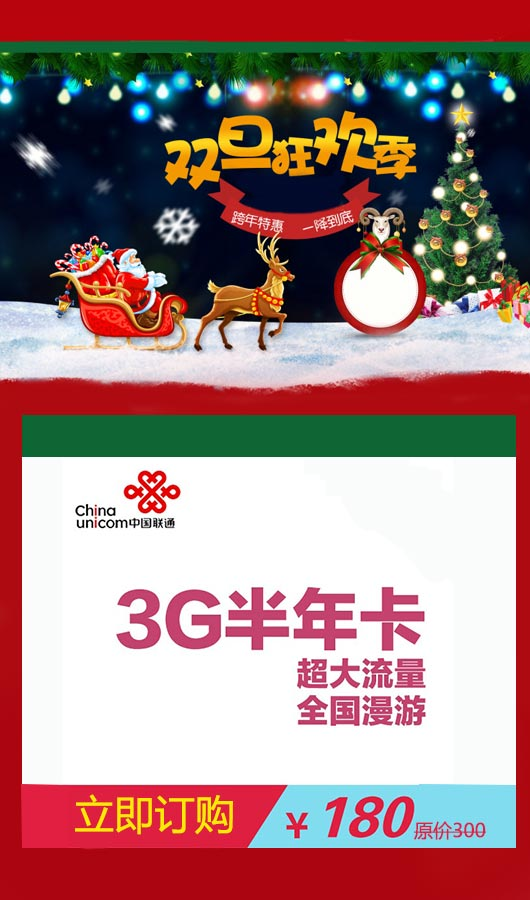
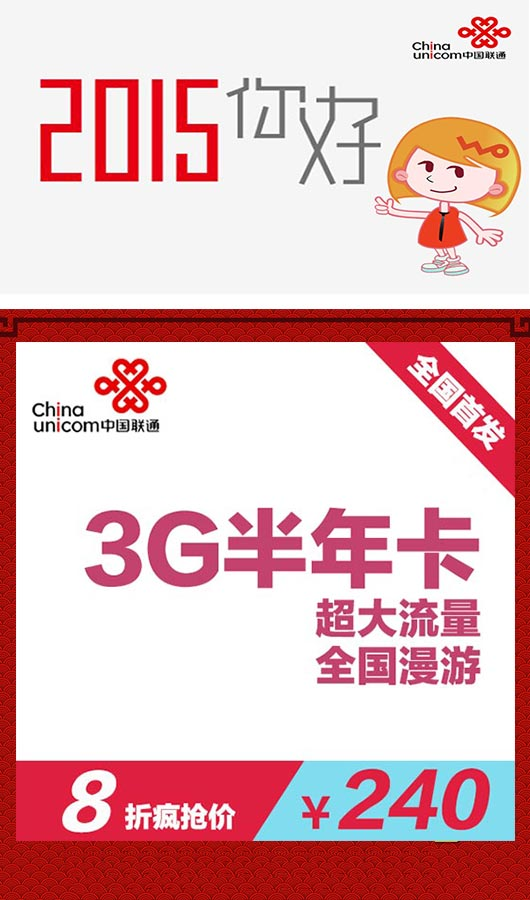
modify

diff --git a/views/wap/showdoubledaninfo.php b/views/wap/showdoubledaninfo.php
@@ -9,7 +9,7 @@
 <head>
 <meta http-equiv="Content-Type" content="text/html; charset=UTF-8">
 
-<title>双旦狂欢季</title> 
+<title>上网卡</title> 
 <meta name="description" content=""> 
 <meta http-equiv="Pragma" content="no-cache">
 <meta http-equiv="Expires" content="-1">
@@ -44,16 +44,18 @@
 <div class="device rel" id="device" >
     <div class="swiper-container" id="swiper-container">
       <div class="swiper-wrapper">
+	  
+	  <!--
             <div class="swiper-slide rel swiper-slide-visible swiper-slide-active">
               <div class="main">
-              <img src="./show_res/index_doubledaninfo.jpg?v5" >
+              <img src="./show_res/index_doubledaninfo.jpg?v7" >
               </div>
             </div>
            
             <div class="swiper-slide rel" >
               <div class="main" >
               <a href="javascript:jump2order('iphone4s')">
-                <img class="lazy" data-original="./show_res/iphone4s.jpg?v5" src="./show_res/iphone4s.jpg?v5" >
+                <img class="lazy" data-original="./show_res/iphone4s.jpg?v7" src="./show_res/iphone4s.jpg?v7" >
               </a>
               </div>
             </div>
@@ -61,7 +63,7 @@
             <div class="swiper-slide rel" >
               <div class="main" >
               <a href="javascript:jump2order('iphone5s')">
-                <img class="lazy" data-original="./show_res/iphone5s.jpg?v5" src="./show_res/iphone5s.jpg?v5" >
+                <img class="lazy" data-original="./show_res/iphone5s.jpg?v7" src="./show_res/iphone5s.jpg?v7" >
               </a>
               </div>
             </div>
@@ -69,7 +71,7 @@
             <div class="swiper-slide rel" >
               <div class="main" >
               <a href="javascript:jump2order('iphone6')">
-                <img class="lazy" data-original="./show_res/iphone6dd.jpg?v5" src="./show_res/iphone6dd.jpg?v5" >
+                <img class="lazy" data-original="./show_res/iphone6dd.jpg?v7" src="./show_res/iphone6dd.jpg?v7" >
               </a>
               </div>
             </div>
@@ -77,7 +79,7 @@
             <div class="swiper-slide rel" >
               <div class="main" >
               <a href="javascript:jump2order('honor6')">
-                <img class="lazy" data-original="./show_res/honor6.jpg?v5" src="./show_res/honor6.jpg?v5" >
+                <img class="lazy" data-original="./show_res/honor6.jpg?v7" src="./show_res/honor6.jpg?v7" >
               </a>
               </div>
             </div>
@@ -85,7 +87,7 @@
             <div class="swiper-slide rel" >
               <div class="main" >
               <a href="javascript:jump2order('xiaomi4')">
-                <img class="lazy" data-original="./show_res/xiaomi4.jpg?v5" src="./show_res/xiaomi4.jpg?v5" >
+                <img class="lazy" data-original="./show_res/xiaomi4.jpg?v7" src="./show_res/xiaomi4.jpg?v7" >
               </a>
               </div>
             </div>
@@ -93,15 +95,16 @@
             <div class="swiper-slide rel" >
               <div class="main" >
               <a href="javascript:jump2order('samsungg5108q')">
-                <img class="lazy" data-original="./show_res/samsungg5108q.jpg?v5" src="./show_res/samsungg5108q.jpg?v5" >
+                <img class="lazy" data-original="./show_res/samsungg5108q.jpg?v7" src="./show_res/samsungg5108q.jpg?v7" >
               </a>
               </div>
             </div>
-
-            <div class="swiper-slide rel" >
+			-->
+			
+            <div class="swiper-slide rel swiper-slide-visible swiper-slide-active" >
               <div class="main" >
               <a href="javascript:jump2order('100yuan5gshangwangka')">
-                <img class="lazy" data-original="./show_res/100yuan5gshangwangka.jpg?v5" src="./show_res/100yuan5gshangwangka.jpg?v5" >
+                <img class="lazy" data-original="./show_res/100yuan5gshangwangka.jpg?v7" src="./show_res/100yuan5gshangwangka.jpg?v7" >
               </a>
               </div>
             </div>  
@@ -109,7 +112,7 @@
             <div class="swiper-slide rel" >
               <div class="main" >
               <a href="javascript:jump2order('3gbannianshangwangka')">
-                <img class="lazy" data-original="./show_res/3gbannianshangwangka.jpg?v5" src="./show_res/3gbannianshangwangka.jpg?v5" >
+                <img class="lazy" data-original="./show_res/3gbannianshangwangka.jpg?v7" src="./show_res/3gbannianshangwangka.jpg?v7" >
               </a>
               </div>
             </div>     
@@ -117,7 +120,7 @@
             <div class="swiper-slide rel" >
               <div class="main" >
               <a href="javascript:jump2order('6gniankashangwangka')">
-                <img class="lazy" data-original="./show_res/6gniankashangwangka.jpg?v5" src="./show_res/6gniankashangwangka.jpg?v5" >
+                <img class="lazy" data-original="./show_res/6gniankashangwangka.jpg?v7" src="./show_res/6gniankashangwangka.jpg?v7" >
               </a>
               </div>
             </div>     
@@ -125,7 +128,7 @@
             <div class="swiper-slide rel" >
               <div class="main" >
               <a href="javascript:jump2order('45gshangwangka')">
-                <img class="lazy" data-original="./show_res/45gshangwangkadd.jpg?v5" src="./show_res/45gshangwangkadd.jpg?v5" >
+                <img class="lazy" data-original="./show_res/45gshangwangkadd.jpg?v7" src="./show_res/45gshangwangkadd.jpg?v7" >
               </a>
               </div>
             </div>                        
@@ -133,7 +136,7 @@
           <div class="swiper-slide rel">
             <div class="main" >
             <a href="javascript:jump2order('96gshangwangka')">
-            <img class="lazy" data-original="./show_res/96gshangwangkadd.jpg?v5" src="./show_res/96gshangwangkadd.jpg?v5" >
+            <img class="lazy" data-original="./show_res/96gshangwangkadd.jpg?v7" src="./show_res/96gshangwangkadd.jpg?v7" >
             </a>
             </div>
           </div> 
@@ -144,7 +147,7 @@
 
 <script type="text/javascript" src="./show_res/stylee.js"></script>
 <script type="text/javascript" src="./show_res/jquery.jplayer.min.js"></script> 
-<script src="./show_res/main.js?v51" type="text/javascript"></script>
+<script src="./show_res/main.js?v71" type="text/javascript"></script>
 <script src="./js/wechat.js" type="text/javascript"></script>
 
 <?php 
@@ -152,9 +155,9 @@
   $url = Yii::$app->wx->WxGetOauth2Url('snsapi_base', 'wap/showdoubledaninfo:'.Yii::$app->wx->getGhid());
   //$this->registerJsFile(Yii::$app->getRequest()->baseUrl.'/js/wechat.js');
   $assetsPath = Yii::$app->getRequest()->baseUrl.'/show_res';
-  $myImg = Url::to("$assetsPath/index_doubledaninfo.jpg?v5", true);
-  $title = '双旦狂欢季';
-  $desc = '2014年最后一波特大优惠已经来袭，亲们做好准备了吗？';
+  $myImg = Url::to("$assetsPath/index_doubledaninfo.jpg?v7", true);
+  $title = '上网卡';
+  $desc = '2015年特大优惠已经来袭，亲们做好准备了吗？';
 ?>
 
 <script>

diff --git a/views/wap/doubledan.php b/views/wap/doubledan.php
@@ -31,61 +31,61 @@
 
 <div data-role="page" id="page1" data-theme="c">
 
-	<?php echo $this->render('header2', ['menuId'=>'menu4','title' => '双旦狂欢季']); ?>
+	<?php echo $this->render('header2', ['menuId'=>'menu4','title' => '上网卡']); ?>
 
 	<div data-role="content">
 
 		<?php if($cid==805) {?>
-			<img src="../web/show_res/doubledan-head.jpg" width="100%">
+			<img src="../web/show_res/doubledan-head.jpg?v1" width="100%">
 			<p>苹果Apple iPhone6</p>
 			<p>市场价5499元，活动价5499元 iPhone6 机身颜色:银色/深空灰色/金色 运行内存RAM:2GB 机身内存:16GB/64GB/128GB 网络模式:单卡多模 电池容量:1810mAh</p>
 		<?php } elseif($cid==813) { ?>
-			<img src="../web/show_res/doubledan-head.jpg" width="100%">
+			<img src="../web/show_res/doubledan-head.jpg?v1" width="100%">
 			<p>苹果Apple iPhone4S</p>
 			<p>市场价2599元，活动价1999元 iPhone4S 机身颜色:白色/黑色 运行内存RAM:512MB 机身内存:8GB 网络模式:单卡双模 电池容量:1420mAh</p>
 
 		<?php } elseif($cid==814) { ?>
-			<img src="../web/show_res/doubledan-head.jpg" width="100%">
+			<img src="../web/show_res/doubledan-head.jpg?v1" width="100%">
 			<p>苹果Apple iPhone5S</p>
 			<p>市场价4699元，活动价4099元 iPhone 5S机身颜色: 银色 金色 深空灰色运行内存RAM: 1GB机身内存: 16GB网络模式: 单卡多模电池容量: 1560mAh</p>
 
 		<?php } elseif($cid==815) { ?>
-			<img src="../web/show_res/doubledan-head.jpg" width="100%">
+			<img src="../web/show_res/doubledan-head.jpg?v1" width="100%">
 			<p>华为荣耀6</p>
 			<p>市场价2199元，活动价1999元 Huawei/华为 H60-L02 白色/黑色 运行内存RAM:3GB 机身内存:16GB 网络模式:双卡多模 电池容量:3100mAh</p>
 
 		<?php } elseif($cid==816) { ?>
-			<img src="../web/show_res/doubledan-head.jpg" width="100%">
+			<img src="../web/show_res/doubledan-head.jpg?v1" width="100%">
 			<p>小米4</p>
 			<p>市场价2199元，活动价2099元 机身颜色:亮白运行 内存RAM:3GB 机身内存:16GB 网络模式:单卡双模 电池容量:3000mah</p>
 
 		<?php } elseif($cid==817) { ?>
-			<img src="../web/show_res/doubledan-head.jpg" width="100%">
+			<img src="../web/show_res/doubledan-head.jpg?v1" width="100%">
 			<p>三星G5108Q</p>
 			<p>市场价1799元，活动价1599元 Samsung/三星 SM-G5108Q 白色/炭灰 运行内存RAM:1GB 机身内存:8GB 网络模式:双卡双模 电池容量:2200mAh</p>
 
 		<?php } elseif($cid==810) { ?>
-			<img src="../web/show_res/doubledan-head.jpg" width="100%">
+			<img src="../web/show_res/doubledan-head.jpg?v1" width="100%">
 			<p>100元5G本地流量上网卡</p>
-			<p>市场价100元，活动价60元 联通3G上网卡套餐:60元/月移动卡号 发行地区:湖北 本地流量所在省:湖北 本地流量所在市:襄阳 内含资费: 月卡（含一个月资费）网速: 42M  是否包含设备:否 本地流量:归属地当地流量5G流量 全国漫游:仅限省内</p>	
+			<p>市场价100元，活动价80元 联通3G上网卡套餐:60元/月移动卡号 发行地区:湖北 本地流量所在省:湖北 本地流量所在市:襄阳 内含资费: 月卡（含一个月资费）网速: 42M  是否包含设备:否 本地流量:归属地当地流量5G流量 全国漫游:仅限省内</p>	
 
 		<?php } elseif($cid==811) { ?>
-			<img src="../web/show_res/doubledan-head.jpg" width="100%">
+			<img src="../web/show_res/doubledan-head.jpg?v1" width="100%">
 			<p>3G半年卡</p>
-			<p>市场价300元，活动价180元 通3G上网卡套餐:3GB/半年移动卡号 发行地区:湖北本地流量所在省:湖北 内含资费: 半年卡（含半年资费） 网速:42M 是否包含设备:否 本地流量:国内流量3GB 全国漫游:可漫游</p>	
+			<p>市场价300元，活动价240元 通3G上网卡套餐:3GB/半年移动卡号 发行地区:湖北本地流量所在省:湖北 内含资费: 半年卡（含半年资费） 网速:42M 是否包含设备:否 本地流量:国内流量3GB 全国漫游:可漫游</p>	
 
 		<?php } elseif($cid==812) { ?>
-			<img src="../web/show_res/doubledan-head.jpg" width="100%">
+			<img src="../web/show_res/doubledan-head.jpg?v1" width="100%">
 			<p>6G年卡</p>
-			<p>市场价600元，活动价360元 联通3G上网卡套餐:600元包6GB全年全国流量卡 移动卡号发行地区:湖北 本地流量所在省:湖北 内含资费:年卡（含整年资费）网速:42M 是否包含设备:否 本地流量:全国流量6GB 全国漫游:无全国漫游</p>	
+			<p>市场价600元，活动价480元 联通3G上网卡套餐:600元包6GB全年全国流量卡 移动卡号发行地区:湖北 本地流量所在省:湖北 内含资费:年卡（含整年资费）网速:42M 是否包含设备:否 本地流量:全国流量6GB 全国漫游:无全国漫游</p>	
 		<?php } elseif($cid==808) { ?>
-			<img src="../web/show_res/doubledan-head.jpg" width="100%">
+			<img src="../web/show_res/doubledan-head.jpg?v1" width="100%">
 			<p>45G 上网卡</p>
-			<p>市场价600元，活动价360元 联通3G上网卡套餐:其他套餐 移动卡号发行地区: 湖北本地流量所在省:湖北本地 内含资费:年卡（含整年资费）网速:42M 是否包含设备:否 无本地流量:40G省内流量 全国漫游:5G国内流量</p>
+			<p>市场价600元，活动价480元 联通3G上网卡套餐:其他套餐 移动卡号发行地区: 湖北本地流量所在省:湖北本地 内含资费:年卡（含整年资费）网速:42M 是否包含设备:否 无本地流量:40G省内流量 全国漫游:5G国内流量</p>
 		<?php } else { ?>
-			<img src="../web/show_res/doubledan-head.jpg" width="100%">
+			<img src="../web/show_res/doubledan-head.jpg?v1" width="100%">
 				<p>96G 上网卡</p>
-				<p>市场价1000元，活动价600元 联通3G上网卡套餐:全国+省内套餐移动 卡号发行地区:湖北 本地流量所在省:湖北 恩施内含资费: 年卡（含整年资费）网速:42M 是否包含设备:否 本地流量:90G省内流量 全国漫游:6G国内流量</p>
+				<p>市场价1000元，活动价800元 联通3G上网卡套餐:全国+省内套餐移动 卡号发行地区:湖北 本地流量所在省:湖北 恩施内含资费: 年卡（含整年资费）网速:42M 是否包含设备:否 本地流量:90G省内流量 全国漫游:6G国内流量</p>
 		<?php } ?>
 
 		<div class="ui-field-contain">
@@ -135,8 +135,8 @@
 	$myImg = Url::to("$assetsPath/share-icon.jpg", true);
 	//$title = strip_tags($item->title);
 	//$desc = strip_tags($item->title_hint);
-	$title = strip_tags('双旦狂欢季');
-	$desc = strip_tags('双旦狂欢季');
+	$title = strip_tags('上网卡');
+	$desc = strip_tags('上网卡');
 ?>
 
 <script>

diff --git a/commands/CmdController.php b/commands/CmdController.php
@@ -120,7 +120,8 @@ class CmdController extends Controller
         //new \app\models\ButtonView('5折流量包订购', Yii::$app->wx->WxGetOauth2Url('snsapi_base', "wap/cardlist:{$gh_id}:kind=".MItem::ITEM_KIND_FLOW_CARD)),
         //$url = Yii::$app->wx->WxGetOauth2Url('snsapi_base', "wap/cardlist:{$gh_id}:kind=".MItem::ITEM_KIND_FLOW_CARD);
 
-        $url = Yii::$app->wx->WxGetOauth2Url('snsapi_base', "wap/showdoubledanmiaoshainfo:{$gh_id}");
+        //$url = Yii::$app->wx->WxGetOauth2Url('snsapi_base', "wap/showpage:{$gh_id}");
+        $url = Yii::$app->wx->WxGetOauth2Url('snsapi_base', "wap/showdoubledaninfo:{$gh_id}");
         U::W($url);
         echo $url;
     }
@@ -433,17 +434,23 @@ class CmdController extends Controller
         {
             $menu = new \app\models\WxMenu([
                 new \app\models\ButtonComplex('沃资讯', [
-                    new \app\models\ButtonView('快速赚钱只需4步', 'http://lm.10010.com/wolm/topicHtml/71d971438b5e4a2bb2b45768b59a9805.html'),
+                    //new \app\models\ButtonView('快速赚钱只需4步', 'http://lm.10010.com/wolm/topicHtml/71d971438b5e4a2bb2b45768b59a9805.html'),
+                    
+                    new \app\models\ButtonView('新年喜乐惠', 'http://mp.weixin.qq.com/s?__biz=MzA4ODkwOTYxMA==&mid=207197445&idx=1&sn=aee84b19e349c436bd30fe9ac6f488d7#rd'),
+                    new \app\models\ButtonView('1折流量包抢购', 'http://mp.weixin.qq.com/s?__biz=MzA4ODkwOTYxMA==&mid=207197175&idx=1&sn=7fc569fb57c99db9be6abc973374aed3#rd'),
+
                     new \app\models\ButtonView('玩转流量', Yii::$app->wx->WxGetOauth2Url('snsapi_base', "wap/showpage:{$gh_id}")),
                     new \app\models\ButtonView('玩转4G', Yii::$app->wx->WxGetOauth2Url('snsapi_base', "wap/show4ginfo:{$gh_id}")),
-                    new \app\models\ButtonView('5折流量包订购', Yii::$app->wx->WxGetOauth2Url('snsapi_base', "wap/cardlist:{$gh_id}:kind=".MItem::ITEM_KIND_FLOW_CARD)),
+                    ////new \app\models\ButtonView('5折流量包订购', Yii::$app->wx->WxGetOauth2Url('snsapi_base', "wap/cardlist:{$gh_id}:kind=".MItem::ITEM_KIND_FLOW_CARD)),
                     /////////////////////////////////////////////////
                     //new \app\models\ButtonView('短信订购流量包', 'http://mp.weixin.qq.com/s?__biz=MzA4ODkwOTYxMA==&mid=203609285&idx=1&sn=06c623779131934da8368482a55e5ba1#rd'),
                 ]),
                 new \app\models\ButtonComplex('沃业务', [
                     //new \app\models\ButtonView('1212万能盛典', Yii::$app->wx->WxGetOauth2Url('snsapi_base', "wap/showdouble12info:{$gh_id}")),
-                    new \app\models\ButtonView('双旦狂欢季', Yii::$app->wx->WxGetOauth2Url('snsapi_base', "wap/showdoubledaninfo:{$gh_id}")),
-                    new \app\models\ButtonView('双旦秒杀', Yii::$app->wx->WxGetOauth2Url('snsapi_base', "wap/showdoubledanmiaoshainfo:{$gh_id}")),
+                    //new \app\models\ButtonView('双旦狂欢季', Yii::$app->wx->WxGetOauth2Url('snsapi_base', "wap/showdoubledaninfo:{$gh_id}")),
+                    new \app\models\ButtonView('你好,2015', Yii::$app->wx->WxGetOauth2Url('snsapi_base', "wap/showdoubledaninfo:{$gh_id}")),
+                    
+                    //new \app\models\ButtonView('双旦秒杀', Yii::$app->wx->WxGetOauth2Url('snsapi_base', "wap/showdoubledanmiaoshainfo:{$gh_id}")),
                     new \app\models\ButtonView('老友季焕新机', Yii::$app->wx->WxGetOauth2Url('snsapi_base', "wap/showk1info:{$gh_id}")),
                     new \app\models\ButtonView('微信店铺', Yii::$app->wx->WxGetOauth2Url('snsapi_base', "wap/wlmshop:{$gh_id}")),
                     /////////////////////////////////////////////////
@@ -453,7 +460,7 @@ class CmdController extends Controller
                     new \app\models\ButtonView('话费查询', 'http://wap.10010.com/t/query/queryRealTimeFeeInfo.htm?menuId=000200010001'),
                     new \app\models\ButtonView('话费充值', 'http://upay.10010.com/npfwap/npfMobWap/bankcharge/index.html?version=null&desmobile=8E2104B024B5116C9EA24F8EE55A29A8#/bankcharge'),
                     new \app\models\ButtonView('流量查询', 'http://wap.10010.com/t/operationservice/queryRunoff.htm?menuId=000200020001'),
-                    new \app\models\ButtonView('流量抽奖', 'http://hb.kk3g.net/active/online/0521/pre.html?tag=weixin'),
+                    new \app\models\ButtonView('流量抽奖第3季', 'http://wap.hb165.com/llphb3/#rd'),
                     new \app\models\ButtonView('用户吐槽', 'http://wsq.qq.com/reflow/263163652-1044?_wv=1&source='),
                 ]),
             ]);

diff --git a/models/WechatXiangYangUnicom.php b/models/WechatXiangYangUnicom.php
@@ -80,7 +80,7 @@ class WechatXiangYangUnicom extends Wechat
         $url_wxdp = "<a href=\"".Url::to(['wap/wlmshop', 'gh_id'=>$gh_id], true)."\">微信店铺</a>";
         $url_4gyw = "<a href=\"".Url::to(['wap/show4ginfo', 'gh_id'=>$gh_id], true)."\">数信业务</a>";
         $url_sxyw = "<a href=\"".Url::to(['wap/showpage', 'gh_id'=>$gh_id], true)."\">数信业务</a>";
-        $url_dzl = "<a href=\"".Url::to(['wap/cardlist', 'gh_id'=>$gh_id, 'openid'=>$openid, 'kind'=>MItem::ITEM_KIND_FLOW_CARD], true)."\">5折专享流量包</a>";
+        //$url_dzl = "<a href=\"".Url::to(['wap/cardlist', 'gh_id'=>$gh_id, 'openid'=>$openid, 'kind'=>MItem::ITEM_KIND_FLOW_CARD], true)."\">5折专享流量包</a>";
 
         $url_1 = "查话费,查流量，请访问沃服务->{$url_ltsjyyt}；\n";
         $url_2 = "充话费，请访问沃服务->{$url_hfcz}，全网最低9.85折；\n";
@@ -90,10 +90,11 @@ class WechatXiangYangUnicom extends Wechat
         //$url_4 = "了解并订购联通的{$url_4gyw}，{$url_sxyw}，或其他业务，请访问下面的菜单“沃业务”；\n";
         //$url_5 = "了解联通的服务内容，请访问下面的菜单“沃服务”；\n";
         $url_6 = "了解更多联通业务、资讯和服务内容，请访问下面的菜单系统；\n\n";
-        $url_7 = "另，如果您是联通3G用户，现在微信平台订购3G省内流量包，可专享3个月5折话费返还，{$url_dzl}办理！\n";
+        //$url_7 = "另，如果您是联通3G用户，现在微信平台订购3G省内流量包，可专享3个月5折话费返还，{$url_dzl}办理！\n";
         $url_8 = "您如果还有其他问题，请微信平台留言，或直接致电10010，我们会有客服帮助您！\n";
         //$url_all = $url_1.$url_2.$url_3.$url_4.$url_5.$url_6.$url_7.$url_8;
-        $url_all = $url_1.$url_2.$url_3.$url_6.$url_7.$url_8;
+        //$url_all = $url_1.$url_2.$url_3.$url_6.$url_7.$url_8;
+        $url_all = $url_1.$url_2.$url_3.$url_6.$url_8;
 
         if (!empty($EventKey))
         {        
@@ -314,7 +315,52 @@ class WechatXiangYangUnicom extends Wechat
         else if(strstr($msg,"宽带")!==false)
         {
             return $this->responseText("请拨打联通热线10010 向客服咨询，谢谢!");
-        }        
+        }  
+        else if ($msg == '抢年会红包')/*抢年会红包*/
+        {
+
+            $Date_1=date("Y-m-d H:i:s");
+            $Date_2="2015-2-28 16:00:00";
+            $d1=strtotime($Date_1);
+            $d2=strtotime($Date_2);
+            //$d=round(($d2-$d1)/3600/24);
+            $d=($d2-$d1);
+
+
+            //echo "今天与2008年10月11日相差".$Days."天";
+
+            //$url_qhb = "<a href=\"".Url::to(['wap/qhb', 'gh_id'=>$gh_id, 'openid'=>$openid], true)."\">如何抢红包?</a>";
+            $url_qhb = "<a href=\"http://mp.weixin.qq.com/s?__biz=MzA4ODkwOTYxMA==&mid=207415891&idx=1&sn=13c30e5dd03775b83508cc7bd0002060#rd\">如何抢红包?</a>";
+            
+            //$url_qhb = "如何抢红包?";
+
+            if($d < 0)
+            {
+                return $this->responseText("立即进入微信面对面群开抢红包！群密码：2015\n\n {$url_qhb}");
+            }
+            else if($d > 0 && $d <= 1*60 )
+            {
+                $t = $d;
+                return $this->responseText("{$Date_2}\n红包准时开抢! \n\n距2015年襄阳联通经销商年会抢红包活动还有{$t}秒！\n\n敬请关注!");
+            }
+
+            else if($d > 1*60 && $d <= 1*60*60 )
+            {
+                $t =round(($d)/60);
+                return $this->responseText("{$Date_2}\n红包准时开抢! \n\n距2015年襄阳联通经销商年会抢红包活动还有{$t}分钟！\n\n敬请关注!");
+            }
+            else if($d > 1*60*60 && $d <= 1*60*60*24 )
+            {
+                $t = round(($d)/3600);
+                return $this->responseText("{$Date_2}\n红包准时开抢! \n\n距2015年襄阳联通经销商年会抢红包活动还有{$t}小时！\n\n敬请关注!");
+            }
+            else
+            {
+                $t = round(($d)/3600/24);
+                return $this->responseText("{$Date_2}\n红包准时开抢! \n\n距2015年襄阳联通经销商年会抢红包活动还有{$t}天。\n\n敬请关注!");
+            }
+
+        }
         else
         {
 

diff --git a/models/WechatHoya.php b/models/WechatHoya.php
@@ -90,10 +90,11 @@ class WechatHoya extends Wechat
         //$url_4 = "了解并订购联通的{$url_4gyw}，{$url_sxyw}，或其他业务，请访问下面的菜单“沃业务”；\n";
         //$url_5 = "了解联通的服务内容，请访问下面的菜单“沃服务”；\n";
         $url_6 = "了解更多联通业务、资讯和服务内容，请访问下面的菜单系统；\n\n";
-        $url_7 = "另，如果您是联通3G用户，现在微信平台订购3G省内流量包，可专享3个月5折话费返还，{$url_dzl}办理！\n";
+        //$url_7 = "另，如果您是联通3G用户，现在微信平台订购3G省内流量包，可专享3个月5折话费返还，{$url_dzl}办理！\n";
         $url_8 = "您如果还有其他问题，请微信平台留言，或直接致电10010，我们会有客服帮助您！\n";
         //$url_all = $url_1.$url_2.$url_3.$url_4.$url_5.$url_6.$url_7.$url_8;
-        $url_all = $url_1.$url_2.$url_3.$url_6.$url_7.$url_8;
+        //$url_all = $url_1.$url_2.$url_3.$url_6.$url_7.$url_8;
+        $url_all = $url_1.$url_2.$url_3.$url_6.$url_8;
 
         if (!empty($EventKey))
         {        
